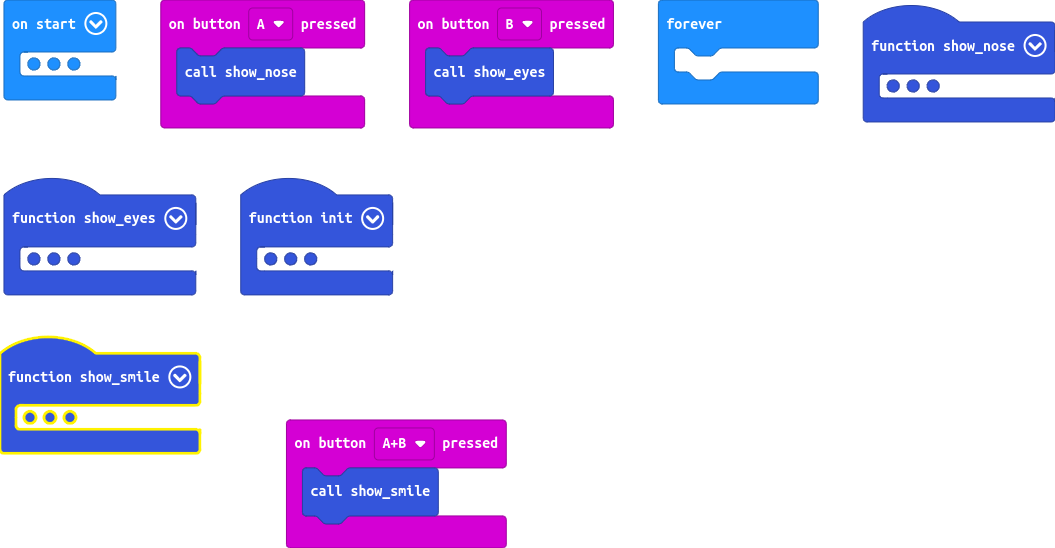
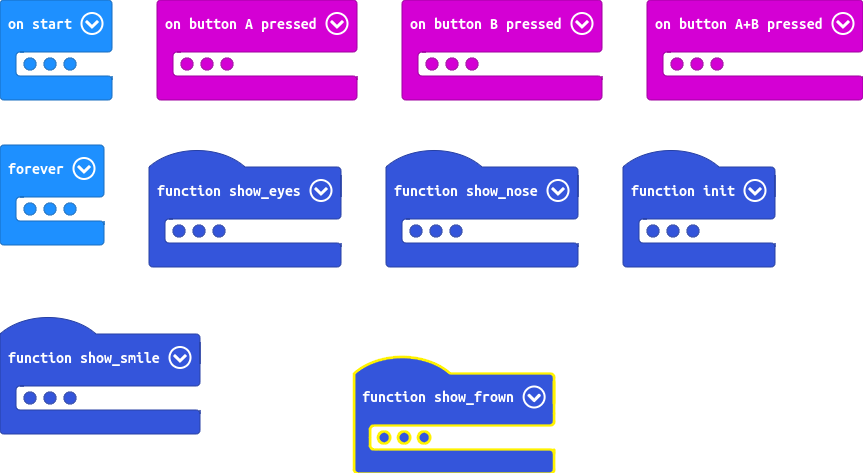
Update main.blocks, main.ts

diff --git a/main.ts b/main.ts
@@ -1,3 +1,12 @@
+function show_frown () {
+    for (let index2 = 0; index2 <= frown.length - 1; index2++) {
+        strip.setPixelColor(frown[index2], neopixel.colors(NeoPixelColors.Violet))
+        strip.show()
+    }
+    basic.pause(200)
+    strip.clear()
+    strip.show()
+}
 function show_eyes () {
     for (let index = 0; index <= botheyes.length - 1; index++) {
         strip.setPixelColor(botheyes[index], neopixel.colors(NeoPixelColors.Green))
@@ -11,11 +20,11 @@ input.onButtonPressed(Button.A, function () {
     show_nose()
 })
 function show_smile () {
-    for (let index = 0; index <= smile.length - 1; index++) {
-        strip.setPixelColor(smile[index], neopixel.colors(NeoPixelColors.Violet))
+    for (let index2 = 0; index2 <= smile.length - 1; index2++) {
+        strip.setPixelColor(smile[index2], neopixel.colors(NeoPixelColors.Violet))
         strip.show()
     }
-    basic.pause(100)
+    basic.pause(200)
     strip.clear()
     strip.show()
 }
@@ -54,12 +63,12 @@ function show_nose () {
     strip.clear()
     strip.show()
 }
-let frown: number[] = []
 let righteye = 0
 let lefteye = 0
 let nose = 0
 let smile: number[] = []
 let botheyes: number[] = []
+let frown: number[] = []
 let strip: neopixel.Strip = null
 strip = neopixel.create(DigitalPin.P0, 17, NeoPixelMode.RGB)
 init()
